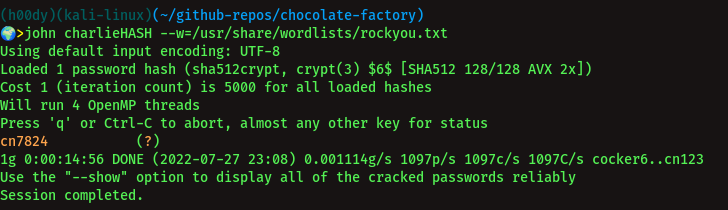
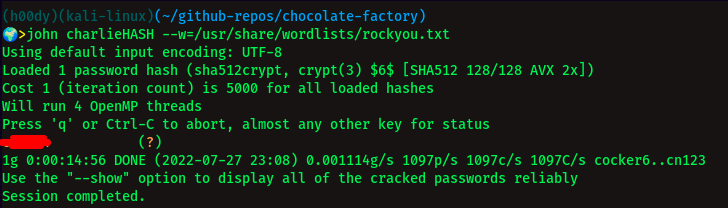
removed answers

Changed region(s): [[0.0, 0.0288, 0.967, 0.9808]]

diff --git a/README.md b/README.md
@@ -123,13 +123,13 @@ To foreground the process<br />
 ![image](images/key.png)
 
 ```
-b'-VkgXhFf6sAEcAwrC6YR-SZbiuSb8ABXeQuvhcGSQzY='
+b'...........................................='
 ```
 
 2. What is Charlie's password?<br />
 
 ```
-cn7824
+c....4
 ```
 
 3. change user to charlie<br />
